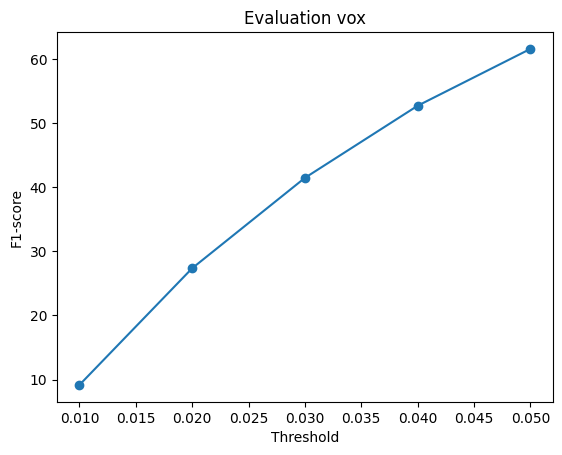
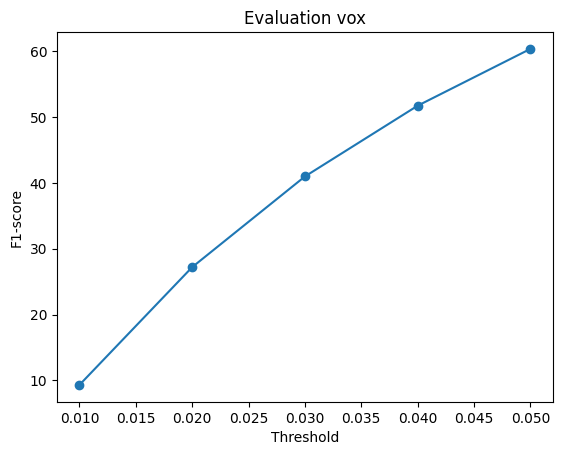
Updated Vox

diff --git a/assignment2/assignment2-master/eval_model.py b/assignment2/assignment2-master/eval_model.py
@@ -206,8 +206,6 @@ def evaluate_model(args):
             iter_time = time.time() - iter_start_time
 
             f1_05 = metrics['F1@0.050000']
-            if f1_05 < 50:
-                continue
             avg_f1_score_05.append(f1_05)
             avg_p_score.append(torch.tensor([metrics["Precision@%f" % t] for t in thresholds]))
             avg_r_score.append(torch.tensor([metrics["Recall@%f" % t] for t in thresholds]))
